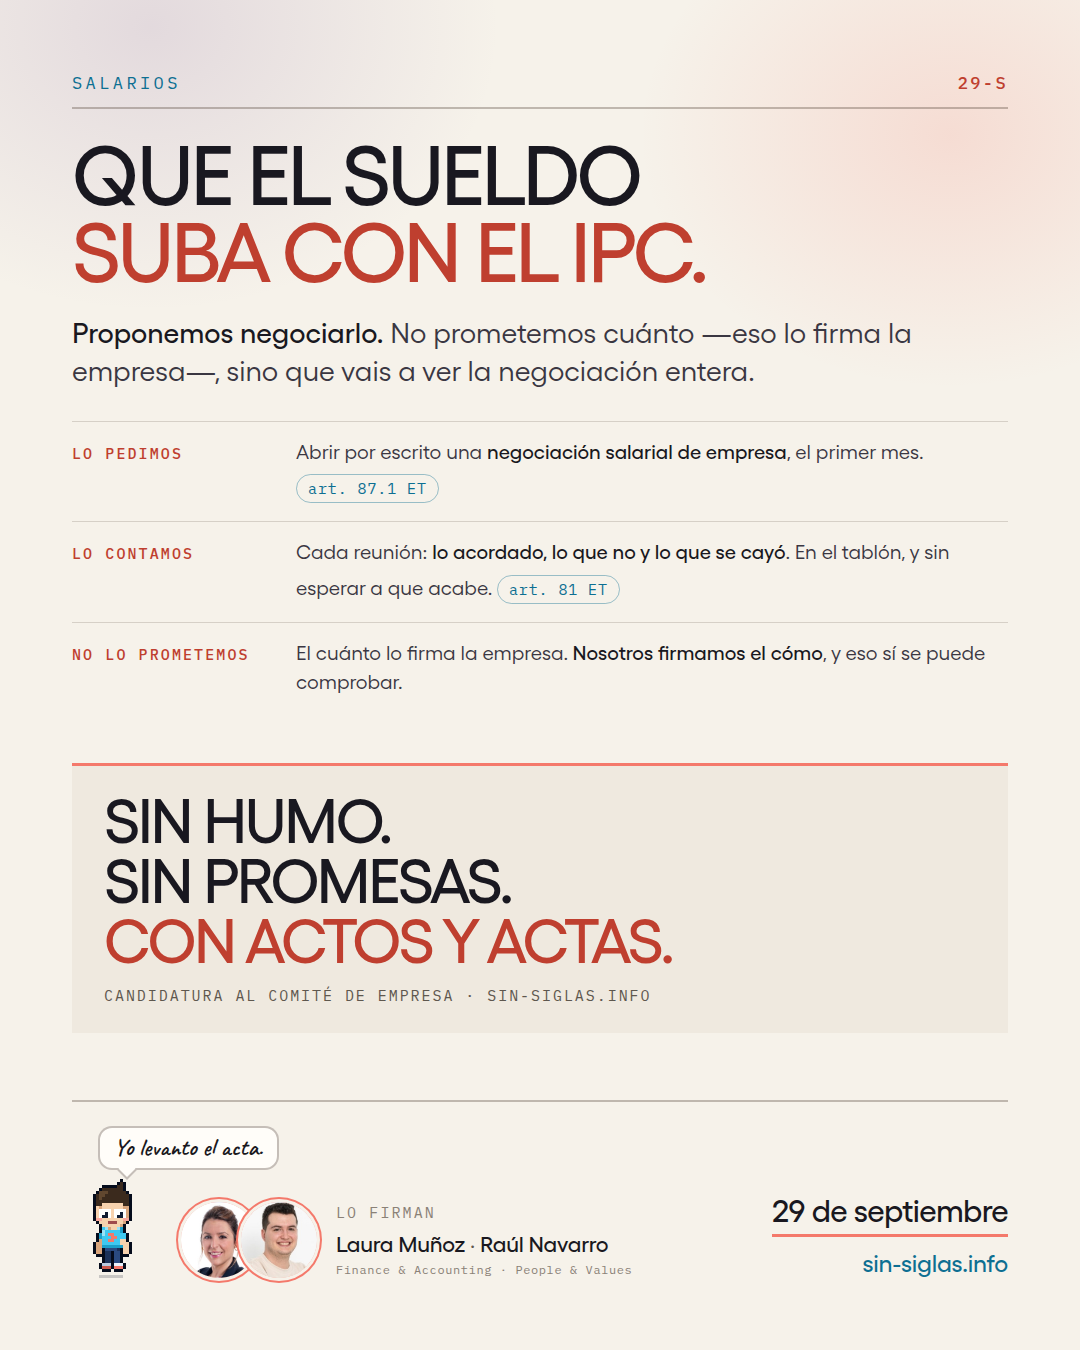
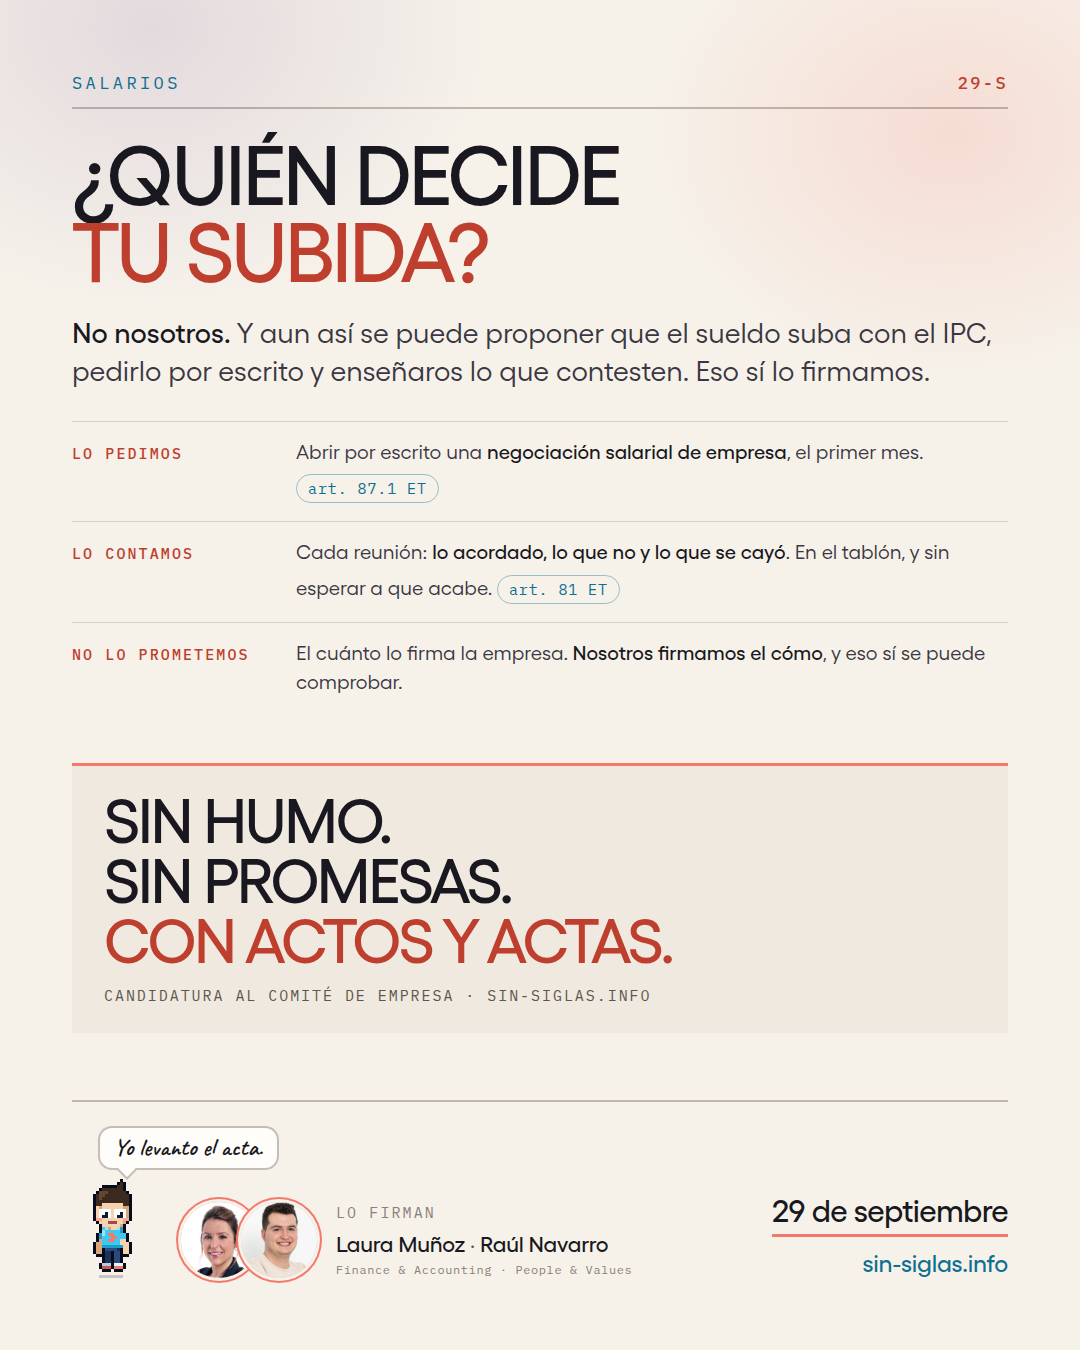
El cartel de las tablas de 2026, y el calendario de la auditoría
`tablas-2026` sustituye a `salarios-ipc` como pieza de dinero, y es mejor
porque no propone nada. El acta de la comisión paritaria del convenio
—BOE-A-2026-9024, del 24 de abril— dice literal que «las empresas tendrán
la obligación de abonar las tablas salariales recogidas en el anexo I en
la nómina siguiente a la del mes de publicación», y los atrasos desde el
1 de enero. Esa nómina era la de mayo.

No necesita mayoría del comité, ni la firma de la empresa, ni que ganemos:
necesita que alguien la mire. Y si está aplicado, la pieza sigue valiendo
como prueba de que leemos el BOE.

Consecuencia para el resto: las tablas del anexo I original del convenio
ya no son las vigentes para 2026 y 2027. Cualquier cifra de tabla sale de
esta acta.

Y `salarios-ipc` deja de contradecir a `lo-que-pedimos`: su titular
prometía que el sueldo subiría con el IPC mientras el programa imprime
que no prometemos subidas ni cláusulas de IPC. Ahora pregunta quién
decide la subida, que es lo que la pieza puede contestar.

Con el calendario de nueve envíos y los siete puntos que hay que cerrar
antes del jueves.

Changed region(s): [[0.0611, 0.0933, 0.9167, 0.28]]

diff --git a/carteles/carteles.html b/carteles/carteles.html
@@ -765,6 +765,13 @@ body.diptico .cartel.elegido + .cartel.elegido{box-shadow:inset 2px 0 0 var(--li
 #c22 .limite{margin-top:44px}
 #c22 .recibo{margin-top:26px}
 #c22 .pie{margin-top:auto}
+
+#c23 .bajada{margin-top:20px}
+#c23 .puertas{margin-top:40px;gap:26px}
+#c23 .puertas li{padding-top:22px}
+#c23 .limite{margin-top:32px}
+#c23 .recibo{margin-top:20px}
+#c23 .pie{margin-top:auto}
 </style>
 </head>
 <body>
@@ -1473,10 +1480,10 @@ body.diptico .cartel.elegido + .cartel.elegido{box-shadow:inset 2px 0 0 var(--li
 <section class="cartel cartel--coral" id="c17">
   <div class="tapa"><span>Salarios</span><b>29-S</b></div>
 
-  <h1 class="titular">Que el sueldo<em>suba con el IPC.</em></h1>
+  <h1 class="titular">¿Quién decide<em>tu subida?</em></h1>
   <p class="bajada bajada--ancha">
-    <b>Proponemos negociarlo.</b> No prometemos cuánto —eso lo firma la empresa—, sino que vais a
-    ver la negociación entera.
+    <b>No nosotros.</b> Y aun así se puede proponer que el sueldo suba con el IPC, pedirlo por
+    escrito y enseñaros lo que contesten. Eso sí lo firmamos.
   </p>
 
   <ul class="puertas">
@@ -1865,6 +1872,99 @@ body.diptico .cartel.elegido + .cartel.elegido{box-shadow:inset 2px 0 0 var(--li
     <div class="pie__medio">
       <p class="pie__quien">Lo firmamos los once</p>
       <p class="pie__nombres">Once personas, seis áreas<span> &middot; cero siglas</span></p>
+    </div>
+    <div class="pie__voto">
+      <p class="pie__fecha">29 de septiembre</p>
+      <p class="pie__url">sin-siglas.info</p>
+    </div>
+  </footer>
+</section>
+
+<!-- ==================================================================
+     LAS TABLAS DE 2026 · el cartel de dinero que no promete nada
+     ------------------------------------------------------------------
+     Sustituye a `salarios-ipc` como pieza de dinero, y es mejor por una
+     razón: no propone nada. Es una obligación que ya venció y que se
+     comprueba mirando un papel. No hace falta ganar las elecciones, ni
+     mayoría del comité, ni la firma de la empresa.
+
+     Verificado en el BOE, no en un resumen. Acta de la Comisión Mixta
+     Paritaria del XIX Convenio, BOE-A-2026-9024, «BOE» núm. 100 del
+     24 de abril de 2026, apartado 7, literal:
+
+       «Las empresas tendrán la obligación de abonar las tablas
+       salariales recogidas en el anexo I en la nómina siguiente a la del
+       mes de publicación de la presente acta en el "Boletín Oficial del
+       Estado".»
+
+       «Las tablas salariales para el ejercicio 2026 iniciaran sus
+       efectos económicos desde el 1 de enero del 2026, siendo obligación
+       de las empresas abonar los atrasos que se hayan podido derivar de
+       la aplicación de la disposición adicional cuarta del convenio
+       colectivo como máximo, en la nómina siguiente a la del mes de
+       publicación.»
+
+     Publicado en abril, así que la nómina obligada es la de MAYO de
+     2026, con atrasos desde el 1 de enero.
+
+     LO QUE NO SABEMOS, y por eso el cartel pregunta en vez de afirmar:
+     si la empresa lo aplicó. Si lo aplicó, la pieza sigue valiendo -- es
+     la prueba de que leemos el BOE y de que lo comprobamos -- y si no lo
+     aplicó, es la única reclamación de dinero de toda la campaña.
+     Consecuencia: las tablas del anexo I original del convenio YA NO SON
+     LAS VIGENTES para 2026 y 2027. Cualquier cartel que cite cifras de
+     tabla tiene que salir de esta acta, no del convenio de abril de 2025.
+     ================================================================== -->
+<section class="cartel cartel--coral" id="c23">
+  <div class="tapa"><span>Tu nómina &middot; tablas de 2026</span><b>29-S</b></div>
+
+  <h1 class="titular titular--corto">¿Te llegaron<em>los atrasos?</em></h1>
+  <p class="bajada bajada--ancha">
+    <b>En abril se publicaron las tablas nuevas de 2026</b>, con efectos desde el 1 de enero. Y el
+    acuerdo obliga a pagarlas, y a pagar los atrasos, en la nómina siguiente. <b>Esa era la de
+    mayo.</b>
+  </p>
+
+  <ul class="puertas">
+    <li>
+      <strong>Qué se firmó</strong>
+      <p>La comisión paritaria del convenio aprobó <b>tablas nuevas para 2026 y 2027</b>. Está en el
+        BOE del 24 de abril. <span class="ley">BOE-A-2026-9024 &middot; art. 90 ET</span></p>
+    </li>
+    <li>
+      <strong>Qué obliga</strong>
+      <p>Literal: <i>«las empresas tendrán la obligación de abonar las tablas […] en la nómina
+        siguiente a la del mes de publicación»</i>, y los atrasos <b>desde el 1 de enero</b>.</p>
+    </li>
+    <li>
+      <strong>Qué vamos a hacer</strong>
+      <p><b>Comprobarlo y decíroslo.</b> Si está aplicado, lo decimos. Si no, se reclama — y esto no
+        hay que negociarlo con nadie: <b>ya está firmado</b>. <span class="ley">art. 64.7.a ET</span></p>
+    </li>
+  </ul>
+
+  <div class="limite">
+    <h4>Y por qué esta pieza es distinta</h4>
+    <p><b>No proponemos nada.</b> Es una obligación de abril que se comprueba en un papel. No
+      necesita mayoría del comité, ni la firma de la empresa, ni que ganemos: <b>necesita que
+      alguien la mire.</b></p>
+  </div>
+
+  <p class="recibo"><b>Mira tu nómina de mayo.</b> Si no te cuadra, cuéntalo &middot;
+    sin-siglas.info/buzon</p>
+
+  <footer class="pie">
+    <div class="compi"><p class="compi__globo">Yo miré la de mayo.</p><canvas data-pose="serio" data-tt="900"></canvas></div>
+    <div class="pie__medio pie__medio--cara">
+      <div class="pie__caras">
+        <img class="pie__cara" src="../a3-candidatura/img/munoz.jpg" alt="">
+        <img class="pie__cara" src="../a3-candidatura/img/navarro.jpg" alt="">
+      </div>
+      <div>
+        <p class="pie__quien">Lo comprueban</p>
+        <p class="pie__nombres">Laura Muñoz <span>&middot;</span> Raúl Navarro</p>
+        <p class="pie__puesto">Finance &amp; Accounting &middot; People &amp; Values</p>
+      </div>
     </div>
     <div class="pie__voto">
       <p class="pie__fecha">29 de septiembre</p>

diff --git a/carteles/ESTRATEGIA.md b/carteles/ESTRATEGIA.md
@@ -605,6 +605,54 @@ llenarse antes de cerrar el sorteo. No sustituye a ninguna pieza de tema.
 corta la propaganda electoral a las cero horas del día anterior al de la votación. Ver el
 apartado 10.
 
+### El calendario que sale de la auditoría del 9 de septiembre
+
+Cuatro asesores externos —movilización, creatividad, relaciones laborales y oposición— revisaron la
+serie el 9 de septiembre. De ahí salieron seis errores legales verificados en fuente primaria, dos
+piezas nuevas de participación, una de dinero, y este calendario. Va con miércoles y jueves, o sea
+que **relaja la regla de martes y viernes a sabiendas** (ver la cuenta de huecos, arriba).
+
+| Día | Pieza | Por qué ahí |
+|---|---|---|
+| jue 10 | `conciliacion` | Iba el 8 y ya va tarde. Trae el tono, y ahora con la cláusula de los 23 días |
+| vie 11 | `tablas-2026` | **Dinero comprobable y ya vencido.** No propone nada: es una obligación de abril |
+| mar 15 | `voto-por-correo` | Quita una barrera en vez de dar una razón. Y el plazo se agota el 24 |
+| jue 17 | `convenio` | El terreno que abrió la otra lista. Tiene que ir antes de cualquier pieza que diga «convenio» |
+| vie 18 | `condiciones-minimas` | La credibilidad más barata: se comprueba mirando tu propia silla |
+| mar 22 | `voces-del-buzon` | Fecha no negociable. Solo existe si el buzón sigue recibiendo |
+| mié 23 | `semaforo` | Justo después del pago, para que el tablero contenga lo que la gente pidió |
+| jue 24 | `a-que-hora-bajas` | El compromiso de hora, a cuatro días. Y es el último día del voto por correo |
+| vie 25 | `ultima-llamada` | Conversión, con hora y sitio de la urna |
+
+**Fuera de los nueve, y no por fallo:** `ambiente`, `carga-de-trabajo`, `comunicacion`,
+`bici-y-patinete`, `propuestas`, `lo-que-pedimos`, `lo-que-no-podemos`, `cuatro-preguntas`,
+`salarios-ipc`, `por-que-votar`, `donde-encontrarnos`, `buzon` y `reto`. Valen para el programa
+escrito, la asamblea, la web, el A3 en pared y la conversación de pasillo. **Un cartel que no se
+envía no es un cartel perdido**; un envío de más sí convierte la campaña en publicidad.
+
+Dos de esas trece están bloqueadas por una razón concreta: `donde-encontrarnos` sigue con la hora de
+comité sin confirmar (apartado 9.2) y `cuatro-preguntas` apuesta a que nuestras citas son perfectas,
+lo que solo es cierto desde hoy.
+
+### Lo que hay que cerrar antes del jueves 10
+
+1. **La hora y el sitio de la urna**, a la mesa. Bloquea `ultima-llamada` del día 25.
+2. **La participación de las elecciones anteriores**, a la mesa. Si es baja, es el mejor cartel que
+   podríamos mandar y nadie la ha pedido.
+3. **La fecha del acta de proclamación definitiva.** El art. 8.4 abre la ventana ese día: si el
+   buzón salió el 4 y la proclamación fue posterior, esa pieza quedó fuera de ventana.
+4. **El plazo exacto del voto por correo**, confirmado con la mesa. El art. 10.1 dice «cinco días
+   antes»; el jueves 24 es nuestro cálculo, no su publicación.
+5. **La plantilla del centro.** Decide si el comité tiene cinco o nueve asientos (art. 66.1 ET) y
+   si el crédito horario es de 15 o 20 horas (art. 68.e).
+6. **`semaforo` no se puede enviar como está.** Dice «nueve casillas» y son veintisiete; tiene tres
+   columnas cuando el apartado 4.2 especifica cuatro —falta «se cayó», que es la que sostiene la
+   tesis—; titula «las nueve acciones» y `lo-que-pedimos` lleva doce; y no tiene **ni una fila de
+   dinero**, que es el tema de cinco de las once respuestas del buzón.
+7. **El reto tiene tres partidas jugadas** (`/api/ranking`, campo `jugadas`) contra un objetivo de
+   30. El enlace funciona —está en `/#quiz`, no en `/reto`—, así que el problema no es técnico: es
+   que no se ha mandado.
+
 ### Reglas de envío
 
 - **Dos por semana, martes y viernes.** Nada un lunes a primera hora ni un viernes a última.
